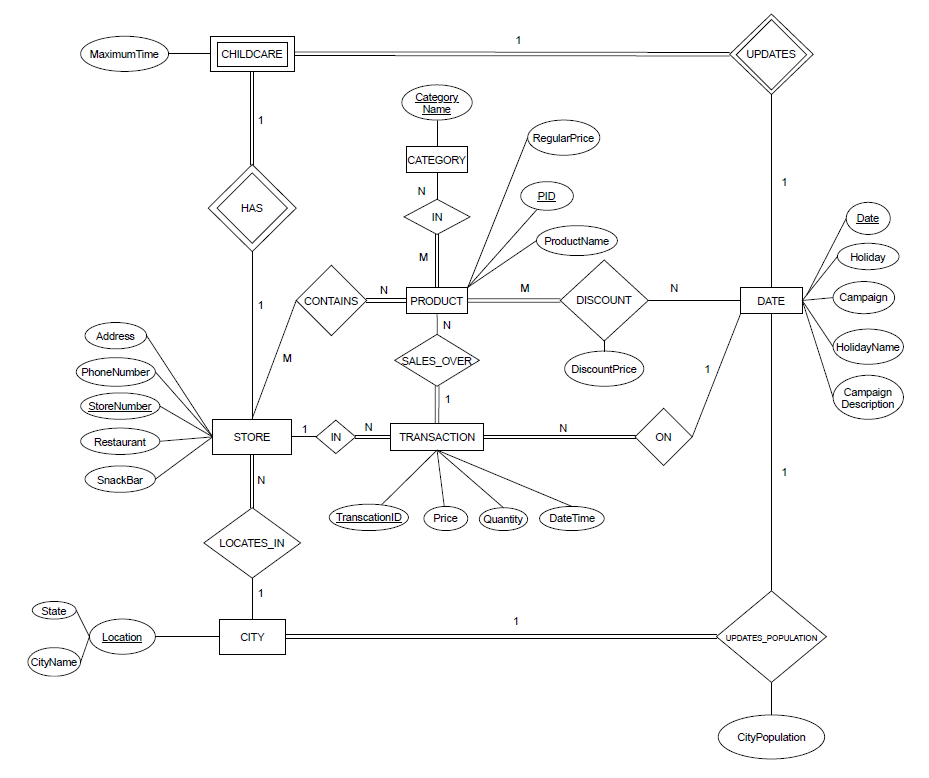
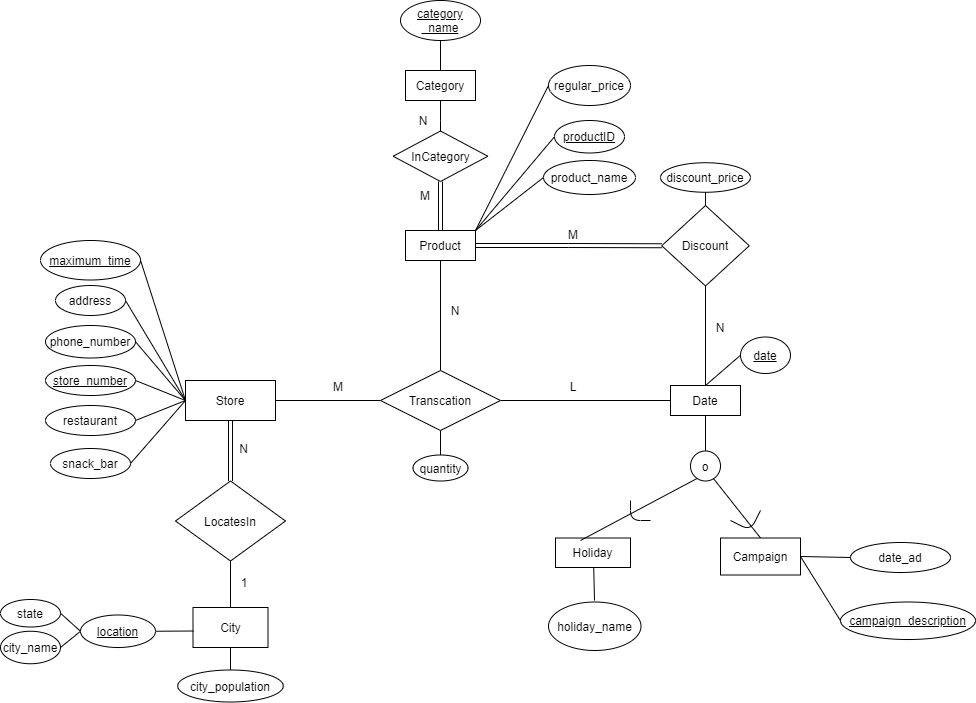
added eer

diff --git a/templates/main_menu.html b/templates/main_menu.html
@@ -41,7 +41,7 @@
         </tbody>
       </table>
     </div>
-    <img width = 600 src="{{ url_for('static', filename='team054_p2_updatedEER.jpg')}}">
+    <img width = 1000 src="{{ url_for('static', filename='eer.png')}}">
     <h1>     EER used in this project</h1>
 </div>
 {% endblock %}
